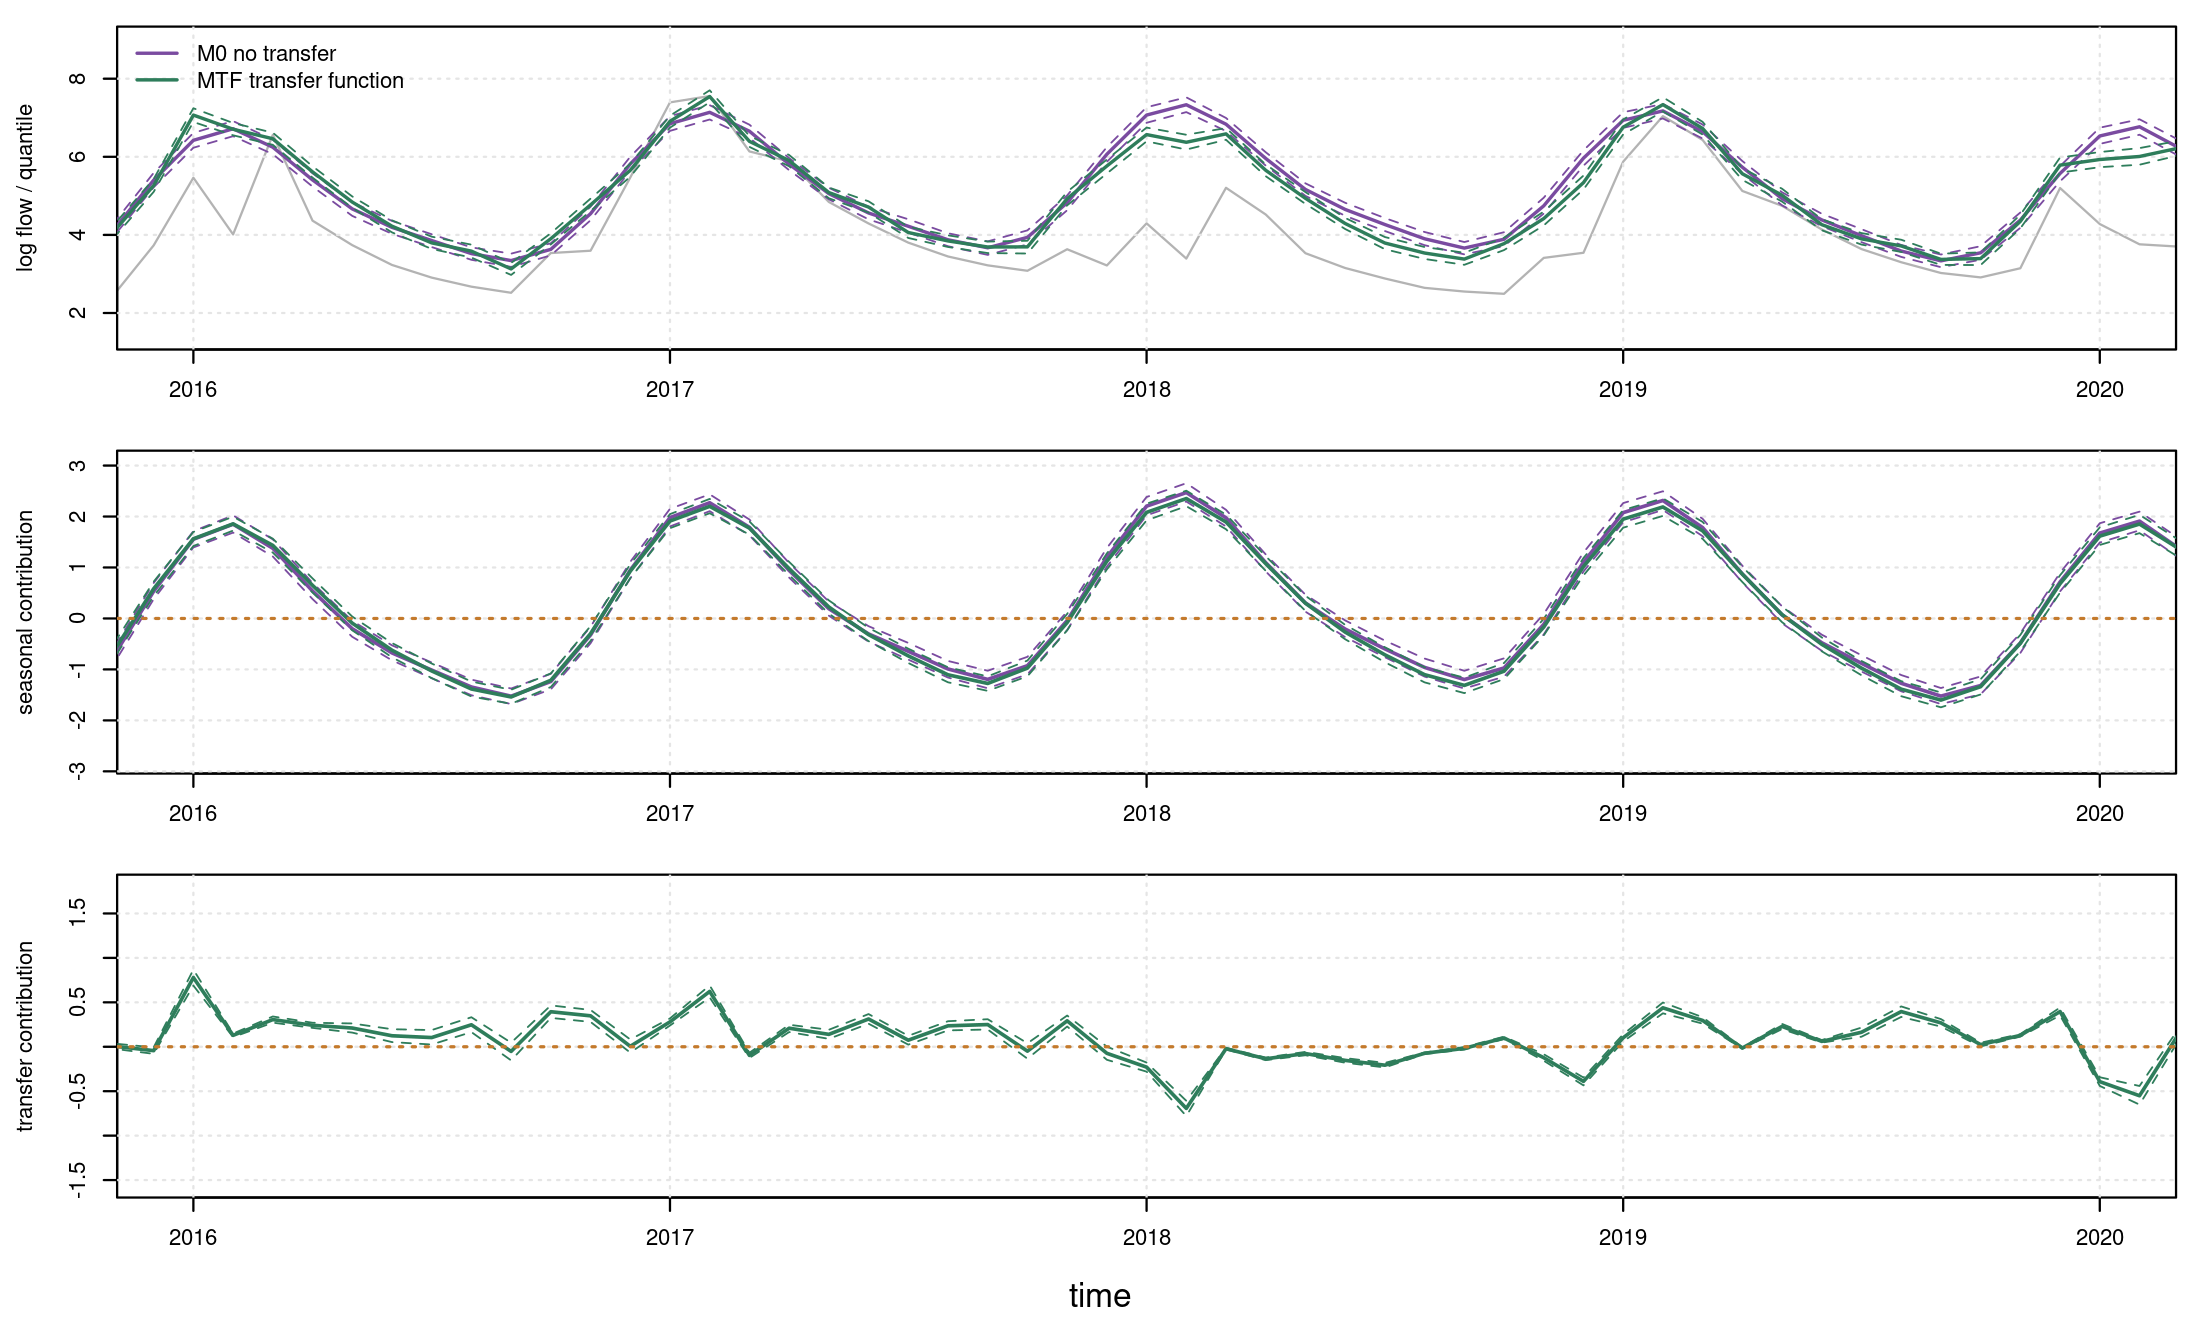
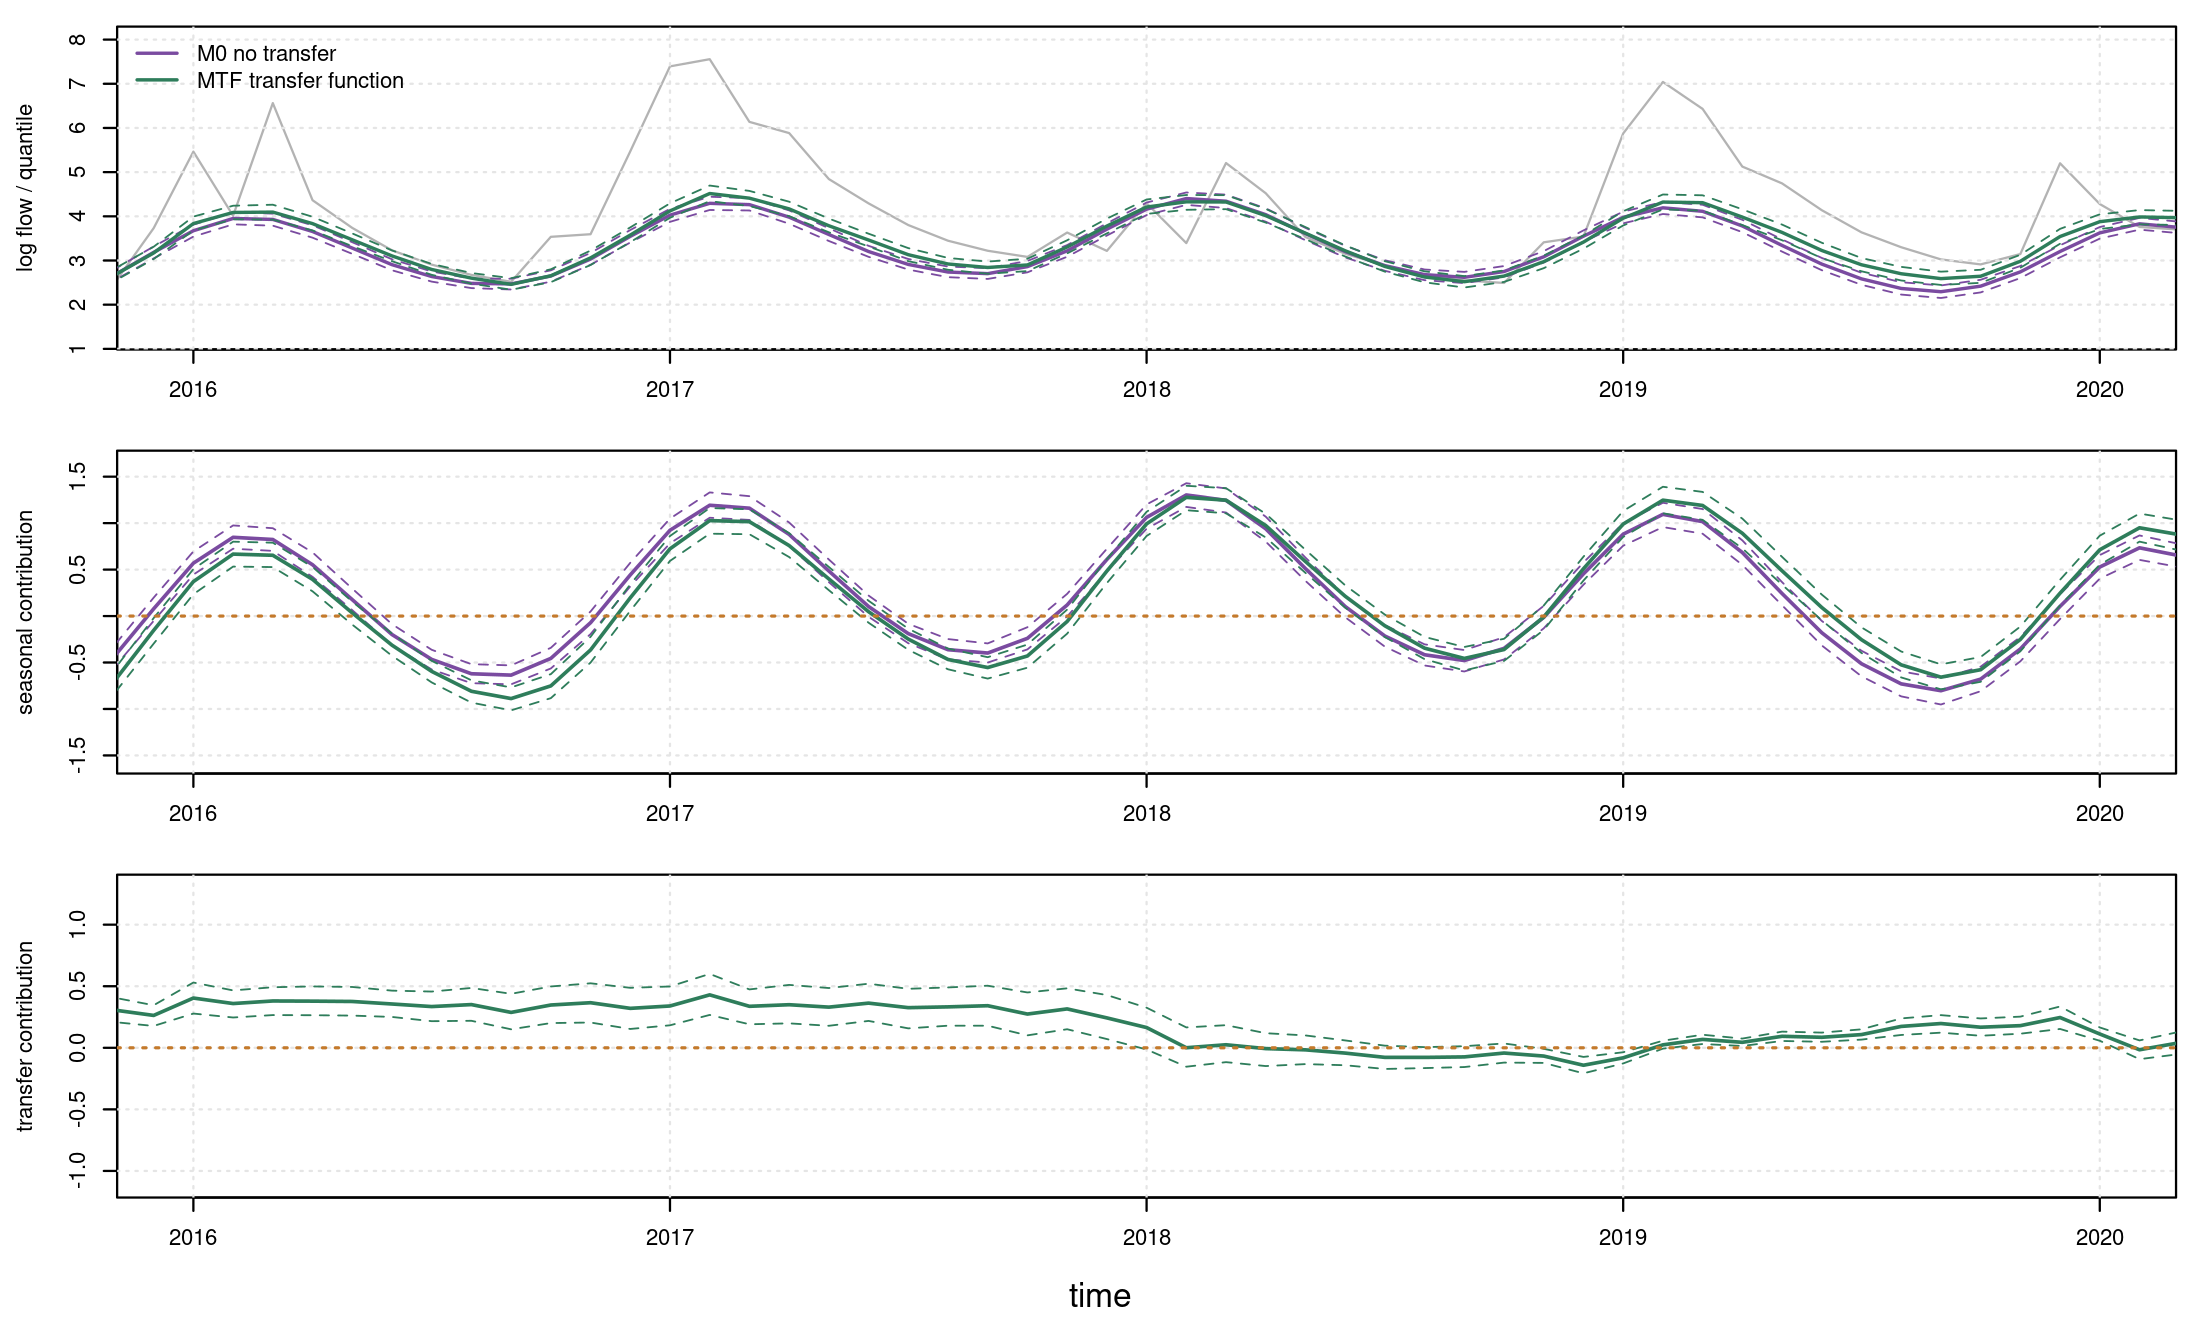
Update Example 3 lower-tail diagnostics workflow

diff --git a/exdqlm-jss.tex b/exdqlm-jss.tex
@@ -885,7 +885,7 @@ Table \ref{tab:ex2bench} gives a compact runtime-and-diagnostic comparison. With
 
 For the next example, we consider observed average monthly water flow (cubic feet per second) at the Big Tree gauge of the San Lorenzo River in Santa Cruz County, CA \citep{btflow}. The \pkg{exdqlm} package includes these measurements as the monthly time series \code{BTflow}, which extends through March 2026. In the analysis below, we use the complete overlap between \code{BTflow} and the package data frame \code{climateIndices}, giving 432 monthly observations from January 1987 through December 2022. The final 18 months, July 2021 through December 2022, are held out for forecast evaluation. This example illustrates how to construct a dynamic quantile model, fit the transfer-function extension with external covariates, examine fitted components, and evaluate conditional forecasts on data not used for fitting.
 
-We focus on the upper-tail quantile \(p_0=0.95\), which represents high monthly-flow behavior on the log scale. As predictors for the transfer-function model, we use two standardized monthly climate indices from \code{climateIndices}: the Northern Oscillation Index (NOI) and the Atlantic Multidecadal Oscillation (AMO) index. These indices are chosen from the NOAA Physical Sciences Laboratory climate-index collection \citep{noaaClimateIndices} to illustrate transfer-function modeling with a small set of external covariates. The covariates are standardized using the training window only. In the final forecast evaluation, future NOI and AMO values over the held-out months are supplied as known covariates; the comparison is therefore a conditional forecast evaluation, not an operational forecast of the climate indices themselves.
+We focus on the lower-tail quantile \(p_0=0.15\), which represents low monthly-flow behavior on the log scale. As predictors for the transfer-function model, we use two standardized monthly climate indices from \code{climateIndices}: the Northern Oscillation Index (NOI) and the Atlantic Multidecadal Oscillation (AMO) index. These indices are chosen from the NOAA Physical Sciences Laboratory climate-index collection \citep{noaaClimateIndices} to illustrate transfer-function modeling with a small set of external covariates. The covariates are standardized using the training window only. In the final forecast evaluation, future NOI and AMO values over the held-out months are supplied as known covariates; the comparison is therefore a conditional forecast evaluation, not an operational forecast of the climate indices themselves.
 
 \begin{CodeChunk}
 \begin{CodeInput}
@@ -917,45 +917,45 @@ R> X.holdout = scale(X.raw[holdout.ind, ],
 The baseline state-space model contains a first-order polynomial trend and a Fourier-form seasonal component with period 12. The seasonal block includes \(h = 1\), \(h = 2\), and \(h \approx 0.147\), corresponding to annual, semiannual, and approximately 7-year cycles on the monthly scale.
 \begin{CodeChunk}
 \begin{CodeInput}
-R> trend.comp = polytrendMod(1, m0 = quantile(y.train, 0.95), C0 = 0.1)
+R> trend.comp = polytrendMod(1, m0 = quantile(y.train, 0.15), C0 = 0.1)
 R> seas.comp = seasMod(p = 12, h = c(1, 2, 0.1469118636),
 +                     C0 = diag(1, 6))
 R> model = trend.comp + seas.comp
 \end{CodeInput}
 \end{CodeChunk}
 
-We compare two models. The first, \code{M0}, is the no-transfer baseline containing only the trend and seasonal components. The second, \code{MTF}, uses the same baseline state-space model and adds NOI and AMO through the transfer-function structure from Section \ref{sec:tf}. For both models, the trend and seasonal discount factors are set to 0.99. The transfer-function model uses \(\delta_\zeta=0.99\) for the accumulated transfer effect. To address whether the instantaneous coefficients need to be time-varying, the replication script compares \(\delta_\psi=0.99\) with \(\delta_\psi=1.00\) using training-data diagnostics.
+We compare two models. The first, \code{M0}, is the no-transfer baseline containing only the trend and seasonal components. The second, \code{MTF}, uses the same baseline state-space model and adds NOI and AMO through the transfer-function structure from Section \ref{sec:tf}. For both models, the trend and seasonal discount factors are set to 0.99. The transfer-function model also fixes the accumulated-effect discount factor \(\delta_\zeta\) and the shared instantaneous-coefficient discount factor \(\delta_\psi\) at 0.99.
 
-The transfer rate \(\lambda\) and the instantaneous-coefficient discount factor are selected using the training period only. The replication script fits each transfer candidate on January 1987 through June 2021 and scores the fitted object with \code{exdqlmDiagnostics()}, using the posterior predictive loss criterion (PPLC) as the primary target-quantile training criterion. The grid uses \(\lambda\in\{0.1,0.2,\ldots,0.9\}\) and \(\delta_\psi\in\{0.99,1.00\}\). The held-out months are not used in this selection step. The selected setting is \(\lambda=0.20\) and \(\delta_\psi=1.00\), so the final transfer-function fit keeps a dynamic accumulated transfer effect while treating the instantaneous NOI and AMO coefficients as time-invariant.
+The transfer rate \(\lambda\) is selected using the training period only. The replication script fits each transfer candidate on January 1987 through June 2021 and scores the fitted object with \code{exdqlmDiagnostics()}, using the posterior predictive loss criterion (PPLC) as the primary target-quantile training criterion. The grid uses \(\lambda\in\{0.1,0.2,\ldots,0.9\}\). The held-out months are not used in this selection step. The selected setting is \(\lambda=0.90\), so the final transfer-function fit uses a persistent accumulated transfer effect while keeping the discount-factor specification fixed.
 
 The final models are fit on January 1987 through June 2021. We use the LDVB implementation for both models; the corresponding MCMC implementation is available when posterior simulation is desired.
 
 \begin{figure}[!t]
 \centering
 \includegraphics[width=1\textwidth]{ex3quantcomps.png}
-\caption{Example 3: Big Tree water flow. Top: MAP estimates and 95\% CrIs of the fitted \(0.95\) quantile from the no-transfer baseline \code{M0} (purple) and transfer-function model \code{MTF} (green), plotted with the data (grey) from 2016 to 2020. Middle: MAP estimates and 95\% CrIs of the combined seasonal components implied by the annual, semiannual, and low-frequency harmonics. Bottom: MAP estimates and 95\% CrIs of the transfer-function contribution from NOI and AMO in \code{MTF}. The horizontal orange dotted lines are at zero for reference.}
+\caption{Example 3: Big Tree water flow. Top: MAP estimates and 95\% CrIs of the fitted \(0.15\) quantile from the no-transfer baseline \code{M0} (purple) and transfer-function model \code{MTF} (green), plotted with the data (grey) from 2016 to 2020. Middle: MAP estimates and 95\% CrIs of the combined seasonal components implied by the annual, semiannual, and low-frequency harmonics. Bottom: MAP estimates and 95\% CrIs of the transfer-function contribution from NOI and AMO in \code{MTF}. The horizontal orange dotted lines are at zero for reference.}
 \label{fig:ex3quant}
 \end{figure}
 
 \begin{CodeChunk}
 \begin{CodeInput}
 R> set.seed(20264101)
-R> M0 = exdqlmLDVB(y = y.train, p0 = 0.95, model = model,
+R> M0 = exdqlmLDVB(y = y.train, p0 = 0.15, model = model,
 +                df = c(0.99, 0.99), dim.df = c(1, 6),
 +                sig.init = 0.1, gam.init = -0.1,
 +                n.samp = 1000, tol = 0.05, verbose = FALSE)
 R> set.seed(20264201)
-R> MTF = exdqlmTransferLDVB(y = y.train, p0 = 0.95, model = model,
+R> MTF = exdqlmTransferLDVB(y = y.train, p0 = 0.15, model = model,
 +                         df = c(0.99, 0.99), dim.df = c(1, 6),
-+                         X = X.train, tf.df = c(0.99, 1.00),
-+                         lam = 0.20, tf.m0 = rep(0, 3),
++                         X = X.train, tf.df = c(0.99, 0.99),
++                         lam = 0.90, tf.m0 = rep(0, 3),
 +                         tf.C0 = diag(c(0.1, 0.005, 0.005), 3),
 +                         sig.init = 0.1, gam.init = -0.1,
 +                         n.samp = 1000, tol = 0.05, verbose = FALSE)
 \end{CodeInput}
 \end{CodeChunk}
 
-The upper panel of Figure \ref{fig:ex3quant} compares the fitted \(0.95\) quantiles from the two training fits over 2016--2020, a period containing several high-flow months. The fitted upper-tail quantile paths are similar because the trend and seasonal components explain much of the broad annual structure. The component plots are therefore more informative than the fitted quantile overlay alone: the middle panel shows that both models recover similar seasonal structure, while the lower panel isolates the additional transfer contribution implied by the climate indices in \code{MTF}.
+The upper panel of Figure \ref{fig:ex3quant} compares the fitted \(0.15\) quantiles from the two training fits over 2016--2020, a wet period in the region that provides a focused view of the fitted low-flow dynamics. The fitted lower-tail quantile paths are similar because the trend and seasonal components explain much of the broad annual structure. The component plots are therefore more informative than the fitted quantile overlay alone: the middle panel shows that both models recover similar seasonal structure, while the lower panel isolates the additional transfer contribution implied by the climate indices in \code{MTF}.
 
 \begin{CodeChunk}
 \begin{CodeInput}
@@ -1001,13 +1001,13 @@ R> compPlot(MTF, index = 8, col = "forest green",
 +             add = FALSE, just.theta = TRUE)
 R> abline(h = 0, col = "orange", lty = 3, lwd = 2)
 R> title(expression(zeta[t]))
-R> plot(y.train, type = "n", ylim = c(-0.35, 0.02),
+R> plot(y.train, type = "n", ylim = c(-0.3, 0.1),
 +       xlab = "time", ylab = "component CrIs")
 R> compPlot(MTF, index = 9, col = "steelblue",
 +             add = TRUE, just.theta = TRUE)
 R> abline(h = 0, col = "orange", lty = 3, lwd = 2)
 R> title(expression(psi[list(NOI, t)]))
-R> plot(y.train, type = "n", ylim = c(-0.02, 0.18),
+R> plot(y.train, type = "n", ylim = c(-0.1, 0.3),
 +       xlab = "time", ylab = "component CrIs")
 R> compPlot(MTF, index = 10, col = "darkorange",
 +             add = TRUE, just.theta = TRUE)
@@ -1016,13 +1016,13 @@ R> title(expression(psi[list(AMO, t)]))
 \end{CodeInput}
 \end{CodeChunk}
 
-The fitted object also reports \code{median.kt}, the median number of time steps until the transfer effect on the \(0.95\) quantile is less than or equal to \(1\mathrm{e}{-3}\), as discussed in Section \ref{sec:tf}. In this example, the value is approximately 3.28, suggesting that the selected upper-tail transfer effect is relatively short-lived.
+The fitted object also reports \code{median.kt}, the median number of time steps until the transfer effect on the \(0.15\) quantile is less than or equal to \(1\mathrm{e}{-3}\), as discussed in Section \ref{sec:tf}. In this example, the value is approximately 35.28, suggesting that the selected lower-tail transfer effect can persist for about 35 months.
 \begin{CodeChunk}
 \begin{CodeInput}
 R> MTF$median.kt
 \end{CodeInput}
 \begin{CodeOutput}
-[1] 3.282288
+[1] 35.27921
 \end{CodeOutput}
 \end{CodeChunk}
 
@@ -1047,28 +1047,24 @@ R> fc.MTF = exdqlmForecast(start.t = length(y.train), k = 18, m1 = MTF,
 \end{CodeInput}
 \end{CodeChunk}
 
-For the numerical comparison in Table \ref{tab:ex3}, we score only the held-out
-18-month forecast window. Because the target is the \(0.95\) quantile, the
-primary score is the mean check loss \(\rho_{0.95}\{y_t-\hat q_t(0.95)\}\),
-where \(\hat q_t(0.95)\) is the forecast quantile mean returned by
-\code{exdqlmForecast()}. We also report the empirical quantile coverage,
-defined as the proportion of held-out observations below the forecast
-\(0.95\) quantile, and the corresponding number of exceedances. The replication
-materials retain the \code{exdqlmDiagnostics()} output used for the
-training-data transfer grid and a support-only direct-regression sensitivity
-fit with the same NOI and AMO covariates.
+For the numerical model comparison in Table \ref{tab:ex3}, we use
+\code{exdqlmDiagnostics()} so that the reported quantities are the package
+diagnostics defined in Section \ref{sec:diags}. These diagnostics are computed
+from the final-training fitted objects. The replication materials also retain
+support-only holdout forecast scores for the 18-month window, but those scores
+are produced by article helper code rather than by an exported package
+diagnostic function.
 
 \begin{CodeChunk}
 \begin{CodeInput}
-R> check.loss = function(p, u) u * (p - as.numeric(u < 0))
+R> set.seed(20265401)
+R> ref.samp = rnorm(length(y.train))
+R> diag.ex3 = exdqlmDiagnostics(M0, MTF, plot = FALSE, ref = ref.samp)
 R> tab.ex3 = data.frame(
 +      model = c("M0", "MTF"),
-+      check_loss = c(mean(check.loss(0.95, y.holdout - fc.M0$ff)),
-+                     mean(check.loss(0.95, y.holdout - fc.MTF$ff))),
-+      coverage = c(mean(y.holdout <= fc.M0$ff),
-+                   mean(y.holdout <= fc.MTF$ff)),
-+      exceedances = c(sum(y.holdout > fc.M0$ff),
-+                      sum(y.holdout > fc.MTF$ff)))
++      KL = c(diag.ex3$m1.KL, diag.ex3$m2.KL),
++      CRPS = c(diag.ex3$m1.CRPS, diag.ex3$m2.CRPS),
++      PPLC = c(diag.ex3$m1.pplc, diag.ex3$m2.pplc))
 \end{CodeInput}
 \end{CodeChunk}
 
@@ -1077,31 +1073,29 @@ R> tab.ex3 = data.frame(
 \TableStyle
 \begin{tabular}{@{}lrrr@{}}
  \toprule
- Model & Mean check loss & Empirical coverage & Exceedances \\
+ Model & KL & CRPS & PPLC \\
  \midrule
- \code{M0} no transfer & 0.177 & 0.833 & 3 \\
- \code{MTF} transfer function & \textbf{0.155} & 0.833 & 3 \\
+ \code{M0} no transfer & 0.212 & 0.483 & \textbf{101.163} \\
+ \code{MTF} transfer function & \textbf{0.135} & \textbf{0.371} & 120.191 \\
  \bottomrule
 \end{tabular}
-\caption{Example 3: Big Tree water flow. Held-out \(0.95\)-quantile forecast
-scores for July 2021 through December 2022. Mean check loss is computed at
-\(p_0=0.95\), empirical coverage is the proportion of held-out observations
-below the forecast \(0.95\) quantile, and exceedances count observations above
-that forecast quantile. Lower check loss is preferred; the bold entry marks the
-smaller value.}
+\caption{Example 3: Big Tree water flow. Package diagnostics from
+\code{exdqlmDiagnostics()} for the no-transfer baseline \code{M0} and the
+transfer-function model \code{MTF}, computed on the final-training fitted
+objects. KL denotes the nearest-neighbor Kullback--Leibler divergence diagnostic,
+CRPS denotes the continuous ranked probability score, and PPLC denotes the
+posterior predictive loss criterion. Lower values are preferred; bold entries
+mark the smaller value for each diagnostic.}
 \label{tab:ex3}
 \end{table}
 
-In this held-out window, the transfer-function model has the smaller mean check
-loss for the target quantile, while both models have three observations above
-the forecast \(0.95\) quantile. The result should be read as an illustration of
-the conditional forecast workflow rather than as a broad performance claim from
-18 forecast months. The support-only direct-regression sensitivity fit has a
-slightly smaller held-out check loss, so the main value of the transfer model in
-this example is the dynamic decomposition in Figures \ref{fig:ex3quant}
-and \ref{fig:ex3tftheta}: \pkg{exdqlm} can add lagged external-input structure,
-inspect the resulting transfer states, and forecast conditionally on future
-covariate values.
+The package diagnostics are mixed. The transfer-function model has smaller KL
+and CRPS values, while the no-transfer baseline has the smaller PPLC, which
+keeps the target-level check loss explicit. We therefore do not interpret this
+example as showing uniform superiority for the transfer-function model. Rather,
+it shows how \pkg{exdqlm} can add lagged external-input structure to a dynamic
+quantile model, inspect the resulting transfer states, use the exported
+diagnostic workflow, and forecast conditionally on future covariate values.
 
 %%%%%%%%%%%%%%%%%%%%%%%%%%%%%%%%%%%%%%%%%
 %%%%%%%%%%%%%%%%%%%%%%%%%%%%%%%%%%%%%%%%%

diff --git a/analysis/manuscript/outputs/tables/manuscript_repro_tracker.md b/analysis/manuscript/outputs/tables/manuscript_repro_tracker.md
@@ -1,6 +1,6 @@
 # Manuscript Reproducibility Tracker
 
-Generated: 2026-05-06 02:22:44
+Generated: 2026-05-06 13:35:29
 Profile: standard
 Seed: 20260501
 
@@ -30,24 +30,24 @@ Seed: 20260501
 - [reproduced] `tab_ex2_diagnostics` -> `analysis/manuscript/outputs/tables/ex2_diagnostics_summary.csv` (Example 2 diagnostic narrative). Primary Example 2 diagnostics summary computed from the LDVB fits.
 - [reproduced] `tab_ex2_df_scan_ldvb` -> `analysis/manuscript/outputs/tables/ex2_df_scan_kl_ldvb.csv` (new: Example 2 discount-factor CRPS/KL selection (LDVB)). Best pair by CRPS in this run: (0.90, 0.85). Best pair by KL: (0.9, 0.85).
 - [reproduced] `tab_ex2_diagnostics_ldvb` -> `analysis/manuscript/outputs/tables/ex2_diagnostics_summary_ldvb.csv` (new: Example 2 diagnostic narrative (LDVB)). LDVB counterpart computed with exdqlmDiagnostics.
-- [reproduced] `fig_ex3data` -> `analysis/manuscript/outputs/figures/ex3data.png` (fig:ex3data). Top: log observed monthly package BTflow. Bottom: standardized NOI and AMO over 1987-01 to 2022-12; vertical line marks the 18-month forecast holdout.
-- [reproduced] `ex3_run_summary` -> `analysis/manuscript/outputs/logs/ex3_run_summary.txt` (Example 3 textual outputs). Observed BTflow plus NOI/AMO Example 3 summary with training-selected transfer settings, package diagnostics, and held-out forecast metrics.
-- [reproduced] `tab_ex3_model_dataset` -> `analysis/manuscript/outputs/tables/ex3_model_dataset.csv` (Example 3 modeling dataset). Aligned Big Tree flow and climate-index data used by Example 3, with training and forecast-holdout phase labels.
-- [reproduced] `tab_ex3_covariate_scaling` -> `analysis/manuscript/outputs/tables/ex3_covariate_scaling.csv` (Example 3 covariate scaling). Training-window means and standard deviations used to standardize Example 3 climate indices.
-- [reproduced] `tab_ex3_lambda_selection` -> `analysis/manuscript/outputs/tables/ex3_lambda_selection.csv` (Example 3 transfer training-selection output). Example 3 transfer-function training diagnostic grid; selected lambda=0.200 and transfer psi discount=1.000 by training PPLC.
-- [reproduced] `tab_ex3_diagnostics` -> `analysis/manuscript/outputs/tables/ex3_diagnostics_summary.csv` (support: Example 3 final-training package diagnostics). Example 3 final-training package diagnostics from exdqlmDiagnostics for the no-transfer and transfer-function models.
 - [reproduced] `tab_ex3_forecast_comparison` -> `analysis/manuscript/outputs/tables/ex3_forecast_comparison.csv` (tab:ex3). Example 3 manuscript table with 18-month holdout target-quantile check loss, empirical coverage, and exceedance counts.
-- [reproduced] `tab_ex3_forecast_metrics` -> `analysis/manuscript/outputs/tables/ex3_forecast_metrics.csv` (support: Example 3 holdout forecast metrics). Support-side Example 3 final 18-month holdout forecast metrics computed by article replication helpers, not exdqlmDiagnostics.
-- [reproduced] `tab_ex3_sensitivity_forecast_metrics` -> `analysis/manuscript/outputs/tables/ex3_sensitivity_forecast_metrics.csv` (Example 3 sensitivity forecast metrics). Example 3 final 18-month holdout forecast metrics including the internal direct-regression sensitivity model.
-- [reproduced] `fig_ex3quantcomps` -> `analysis/manuscript/outputs/figures/ex3quantcomps.png` (fig:ex3quant). Example 3 quantile, seasonal, and transfer-contribution comparison for M0 and MTF.
-- [reproduced] `fig_ex3zetapsi` -> `analysis/manuscript/outputs/figures/ex3zetapsi.png` (fig:ex3tftheta). Transfer-function zeta state and NOI/AMO psi states for the final Example 3 fit.
-- [reproduced] `fig_ex3forecast` -> `analysis/manuscript/outputs/figures/ex3forecast.png` (fig:ex3forecast). Example 3 18-step holdout forecast over 2021-07 to 2022-12.
 - [reproduced] `tab_ex4_seed_screen_p050_summary` -> `analysis/manuscript/outputs/tables/ex4_seed_screen_p050_summary.csv` (support: Example 4 seed screen metrics). Per-seed, per-quantile comparison of the Example 4 static fits. Seed selection targets p0 = 0.50 and requires full MCMC 95% slope-interval coverage.
 - [reproduced] `tab_ex4_seed_screen_p050_selection` -> `analysis/manuscript/outputs/tables/ex4_seed_screen_p050_selection.csv` (support: Example 4 seed screen selection). Seed-level selection summary for the Example 4 screen. The selected seed is the first full-coverage p0 = 0.50 candidate after sorting by MCMC active RMSE, holdout RMSE, runtime, and seed.
 - [reproduced] `log_ex4_seed_screen_p050_summary` -> `analysis/manuscript/outputs/logs/ex4_seed_screen_p050_summary.txt` (support: Example 4 seed screen summary). Selection criteria and chosen Example 4 dataset seed based on the p0 = 0.50 MCMC coverage screen.
 - [reproduced] `log_ex4_run_summary` -> `analysis/manuscript/outputs/logs/ex4_run_summary.txt` (Example 4 textual outputs). Sparse Nishimura-Suchard RHS static simulation settings and recovery metrics for Example 4.
 - [reproduced] `tab_ex4static_summary` -> `analysis/manuscript/outputs/tables/ex4static_summary.csv` (new: Example 4 static simulation summary). Runtime and sparse-signal recovery metrics for LDVB and MCMC under the rhs_ns prior.
 - [reproduced] `fig_ex4static` -> `analysis/manuscript/outputs/figures/ex4static.png` (fig:ex4static). Sparse Nishimura-Suchard RHS static simulation coefficient-recovery comparison for p0 = 0.05, 0.25, 0.50.
+- [reproduced] `fig_ex3data` -> `analysis/manuscript/outputs/figures/ex3data.png` (fig:ex3data). Top: log observed monthly package BTflow. Bottom: standardized NOI and AMO over 1987-01 to 2022-12; vertical line marks the 18-month forecast holdout.
+- [reproduced] `ex3_run_summary` -> `analysis/manuscript/outputs/logs/ex3_run_summary.txt` (Example 3 textual outputs). Observed BTflow plus NOI/AMO Example 3 summary with training-selected transfer settings, package diagnostics, and held-out forecast metrics.
+- [reproduced] `tab_ex3_model_dataset` -> `analysis/manuscript/outputs/tables/ex3_model_dataset.csv` (Example 3 modeling dataset). Aligned Big Tree flow and climate-index data used by Example 3, with training and forecast-holdout phase labels.
+- [reproduced] `tab_ex3_covariate_scaling` -> `analysis/manuscript/outputs/tables/ex3_covariate_scaling.csv` (Example 3 covariate scaling). Training-window means and standard deviations used to standardize Example 3 climate indices.
+- [reproduced] `tab_ex3_lambda_selection` -> `analysis/manuscript/outputs/tables/ex3_lambda_selection.csv` (Example 3 transfer training-selection output). Example 3 transfer-function training diagnostic grid; selected lambda=0.900 and transfer psi discount=0.990 by training PPLC.
+- [reproduced] `tab_ex3_diagnostics` -> `analysis/manuscript/outputs/tables/ex3_diagnostics_summary.csv` (tab:ex3). Example 3 final-training package diagnostics from exdqlmDiagnostics for the no-transfer and transfer-function models.
+- [reproduced] `tab_ex3_forecast_metrics` -> `analysis/manuscript/outputs/tables/ex3_forecast_metrics.csv` (support: Example 3 holdout forecast metrics). Support-side Example 3 final 18-month holdout forecast metrics computed by article replication helpers, not exdqlmDiagnostics.
+- [reproduced] `tab_ex3_sensitivity_forecast_metrics` -> `analysis/manuscript/outputs/tables/ex3_sensitivity_forecast_metrics.csv` (Example 3 sensitivity forecast metrics). Example 3 final 18-month holdout forecast metrics including the internal direct-regression sensitivity model.
+- [reproduced] `fig_ex3quantcomps` -> `analysis/manuscript/outputs/figures/ex3quantcomps.png` (fig:ex3quant). Example 3 quantile, seasonal, and transfer-contribution comparison for M0 and MTF.
+- [reproduced] `fig_ex3zetapsi` -> `analysis/manuscript/outputs/figures/ex3zetapsi.png` (fig:ex3tftheta). Transfer-function zeta state and NOI/AMO psi states for the final Example 3 fit.
+- [reproduced] `fig_ex3forecast` -> `analysis/manuscript/outputs/figures/ex3forecast.png` (fig:ex3forecast). Example 3 18-step holdout forecast over 2021-07 to 2022-12.
 - [reproduced] `tab_api_migration_map` -> `analysis/manuscript/outputs/tables/manuscript_api_migration_map.csv` (global code migration). Maps deprecated manuscript calls to current package API.
 - [reproduced] `tab_benchmark_backend_profiles` -> `analysis/manuscript/outputs/tables/benchmark_backend_profiles.csv` (support: benchmark backend profiles). Defines Profile A (pure-R baseline) and Profile B (manuscript-matched backend).
 - [reproduced] `tab_benchmark_environment` -> `analysis/manuscript/outputs/tables/benchmark_environment.csv` (support: benchmark environment details). CPU, R version, package/article state, backend options, seeds, and dataset sizes for the tracked benchmark run.
@@ -75,3 +75,5 @@ Seed: 20260501
 - benchmark: Benchmark tables reported in the manuscript use backend Profile B; benchmark_backend_profiles.csv defines both disclosed benchmark profiles.
 - benchmark: benchmark_environment.csv records CPU, R version, package/article state, backend options, seeds, and dataset sizes for the tracked benchmark run.
 - scope: Automated reproduction outputs are isolated under analysis/manuscript; manuscript text updates are tracked separately in exdqlm-jss.tex.
+- ex3: Example 3 selected lambda=0.900 using training-data PPLC with transfer psi discount fixed at 0.990.
+- coverage: Targeted run; requested targets: ex3.

diff --git a/analysis/manuscript/examples/ex3_big_tree/README.md b/analysis/manuscript/examples/ex3_big_tree/README.md
@@ -32,15 +32,15 @@ Rscript analysis/run_all.R --stage manuscript --tests-only
 ```
 
 The article currently uses `ex3data.png`, `ex3quantcomps.png`,
-`ex3zetapsi.png`, `ex3forecast.png`, and the values in
-`ex3_forecast_comparison.csv`. The transfer-function training screen is stored
-in `ex3_lambda_selection.csv` and selects the transfer-function rate and
-instantaneous-coefficient discount factor by final-training PPLC from the
-exported `exdqlmDiagnostics()` workflow. The support tables
-`ex3_diagnostics_summary.csv`, `ex3_forecast_metrics.csv`, and
-`ex3_sensitivity_forecast_metrics.csv` retain package diagnostics, 18-month
-holdout forecast scores, and the direct-regression sensitivity fit. The lambda
-selection table records fit/diagnostic failures and package convergence flags
-separately: `status == "ok"` means the fit completed and produced finite
-training diagnostics, while `converged` reports the LDVB joint stopping rule
-from the package.
+`ex3zetapsi.png`, `ex3forecast.png`, and the package diagnostics in
+`ex3_diagnostics_summary.csv`. The transfer-function training screen is stored
+in `ex3_lambda_selection.csv` and selects the transfer-function rate by
+final-training PPLC from the exported `exdqlmDiagnostics()` workflow, with the
+trend, seasonal, and transfer-function discount factors fixed by the manuscript
+configuration. The support tables `ex3_forecast_metrics.csv` and
+`ex3_sensitivity_forecast_metrics.csv` retain 18-month holdout forecast scores
+and the direct-regression sensitivity fit. The lambda selection table records
+fit/diagnostic failures and package convergence flags separately:
+`status == "ok"` means the fit completed and produced finite training
+diagnostics, while `converged` reports the LDVB joint stopping rule from the
+package.

diff --git a/manuscript-reproducibility-index.md b/manuscript-reproducibility-index.md
@@ -26,7 +26,7 @@ These are the figures and tables cited directly in the manuscript.
 | `fig:ex3quant` | `analysis/manuscript/outputs/figures/ex3quantcomps.png` | `Figures/ex3quantcomps.png` |
 | `fig:ex3tftheta` | `analysis/manuscript/outputs/figures/ex3zetapsi.png` | `Figures/ex3zetapsi.png` |
 | `fig:ex3forecast` | `analysis/manuscript/outputs/figures/ex3forecast.png` | `Figures/ex3forecast.png` |
-| `tab:ex3` | `analysis/manuscript/outputs/tables/ex3_forecast_comparison.csv` | tracked table only |
+| `tab:ex3` | `analysis/manuscript/outputs/tables/ex3_diagnostics_summary.csv` | tracked table only |
 | `fig:ex4static` | `analysis/manuscript/outputs/figures/ex4static.png` | `Figures/ex4static.png` |
 | `tab:ex4static` | `analysis/manuscript/outputs/tables/ex4static_summary.csv` | tracked table only |
 
@@ -109,10 +109,9 @@ Publication-facing:
 - [ex3quantcomps.png](/data/muscat_data/jaguir26/exdqlm---Article/analysis/manuscript/outputs/figures/ex3quantcomps.png)
 - [ex3zetapsi.png](/data/muscat_data/jaguir26/exdqlm---Article/analysis/manuscript/outputs/figures/ex3zetapsi.png)
 - [ex3forecast.png](/data/muscat_data/jaguir26/exdqlm---Article/analysis/manuscript/outputs/figures/ex3forecast.png)
-- [ex3_forecast_comparison.csv](/data/muscat_data/jaguir26/exdqlm---Article/analysis/manuscript/outputs/tables/ex3_forecast_comparison.csv)
+- [ex3_diagnostics_summary.csv](/data/muscat_data/jaguir26/exdqlm---Article/analysis/manuscript/outputs/tables/ex3_diagnostics_summary.csv)
 
 Support-only:
-- [ex3_diagnostics_summary.csv](/data/muscat_data/jaguir26/exdqlm---Article/analysis/manuscript/outputs/tables/ex3_diagnostics_summary.csv)
 - [ex3_lambda_selection.csv](/data/muscat_data/jaguir26/exdqlm---Article/analysis/manuscript/outputs/tables/ex3_lambda_selection.csv)
 - [ex3_forecast_metrics.csv](/data/muscat_data/jaguir26/exdqlm---Article/analysis/manuscript/outputs/tables/ex3_forecast_metrics.csv)
 - [ex3_sensitivity_forecast_metrics.csv](/data/muscat_data/jaguir26/exdqlm---Article/analysis/manuscript/outputs/tables/ex3_sensitivity_forecast_metrics.csv)